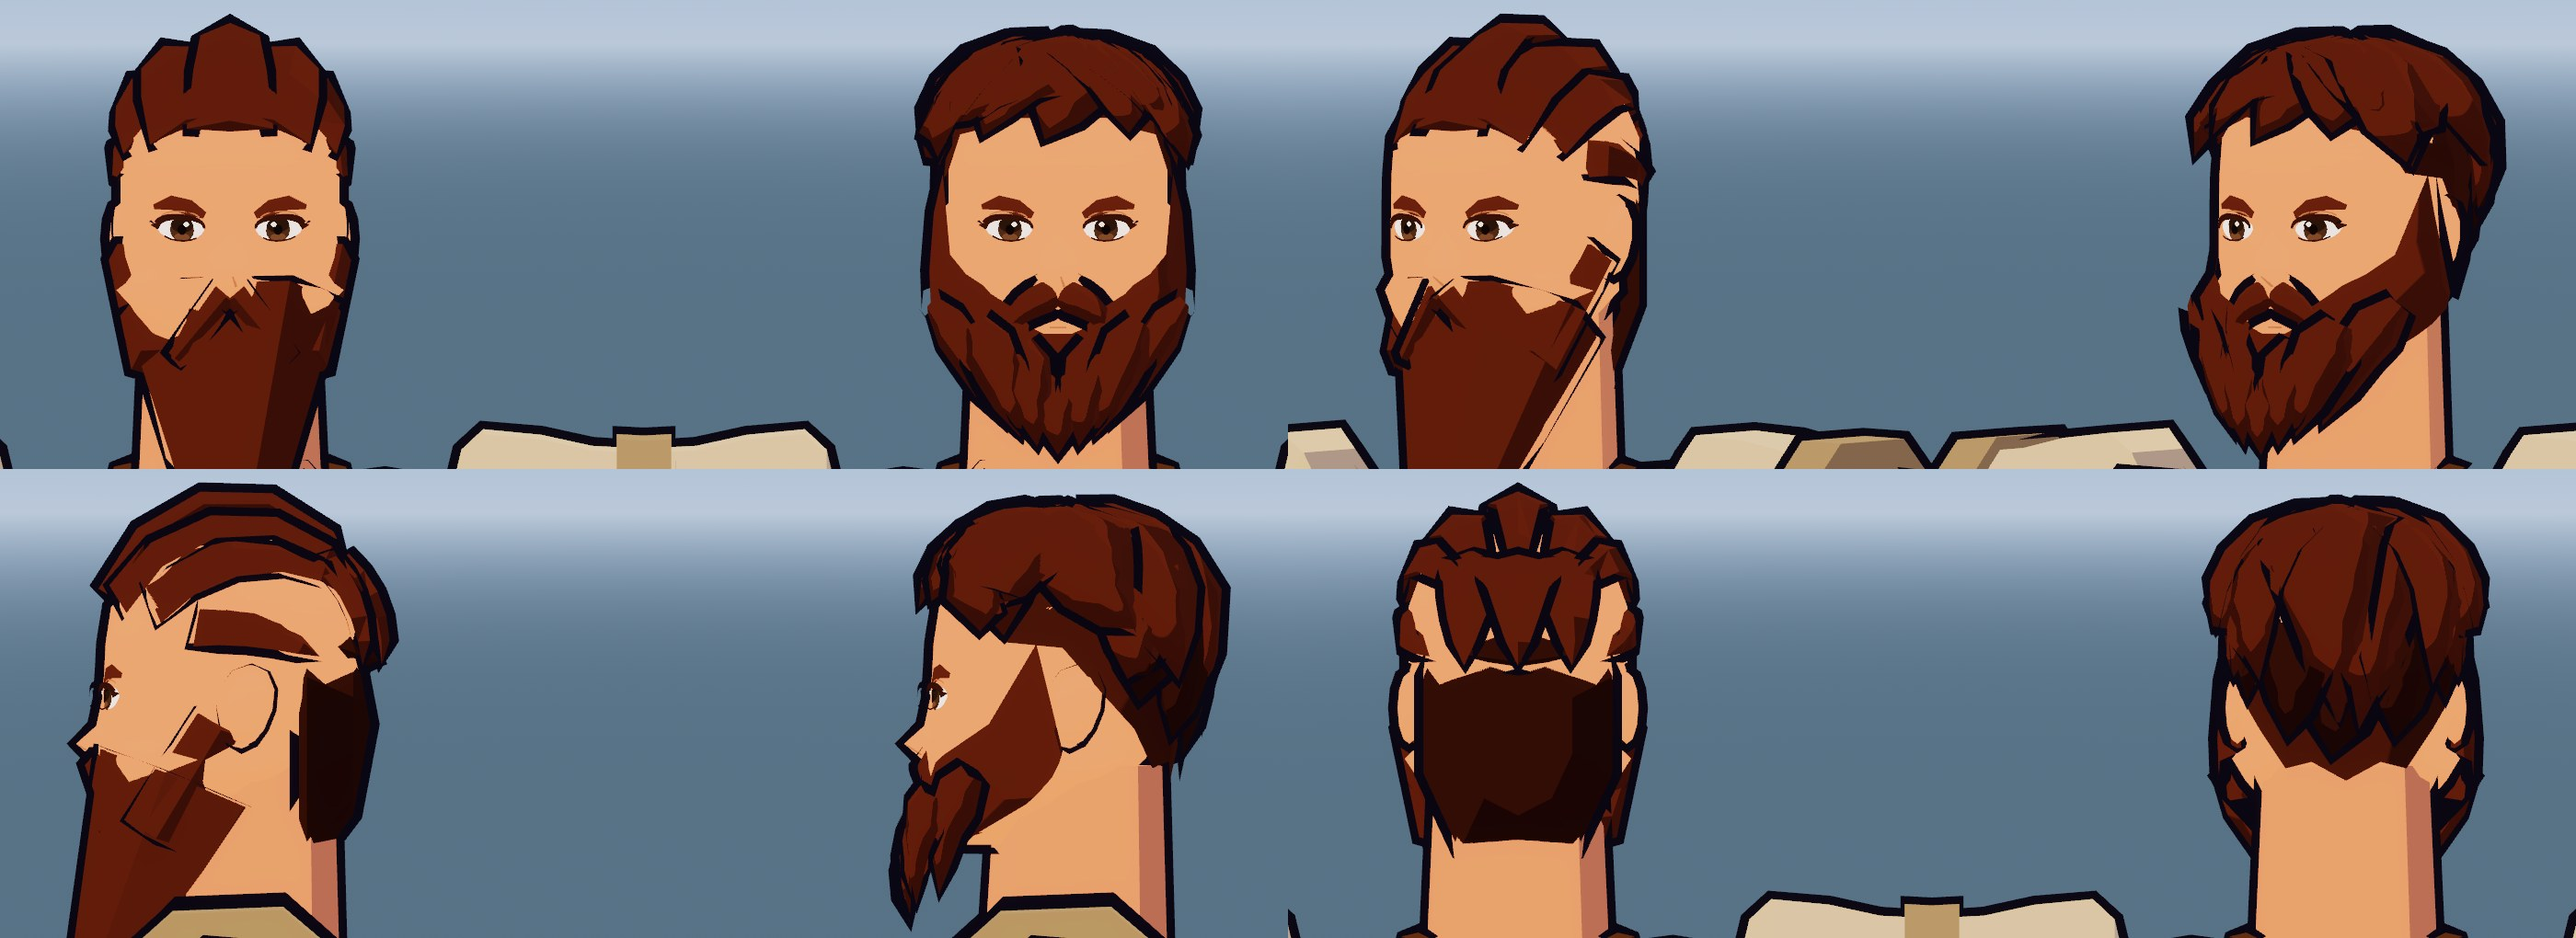
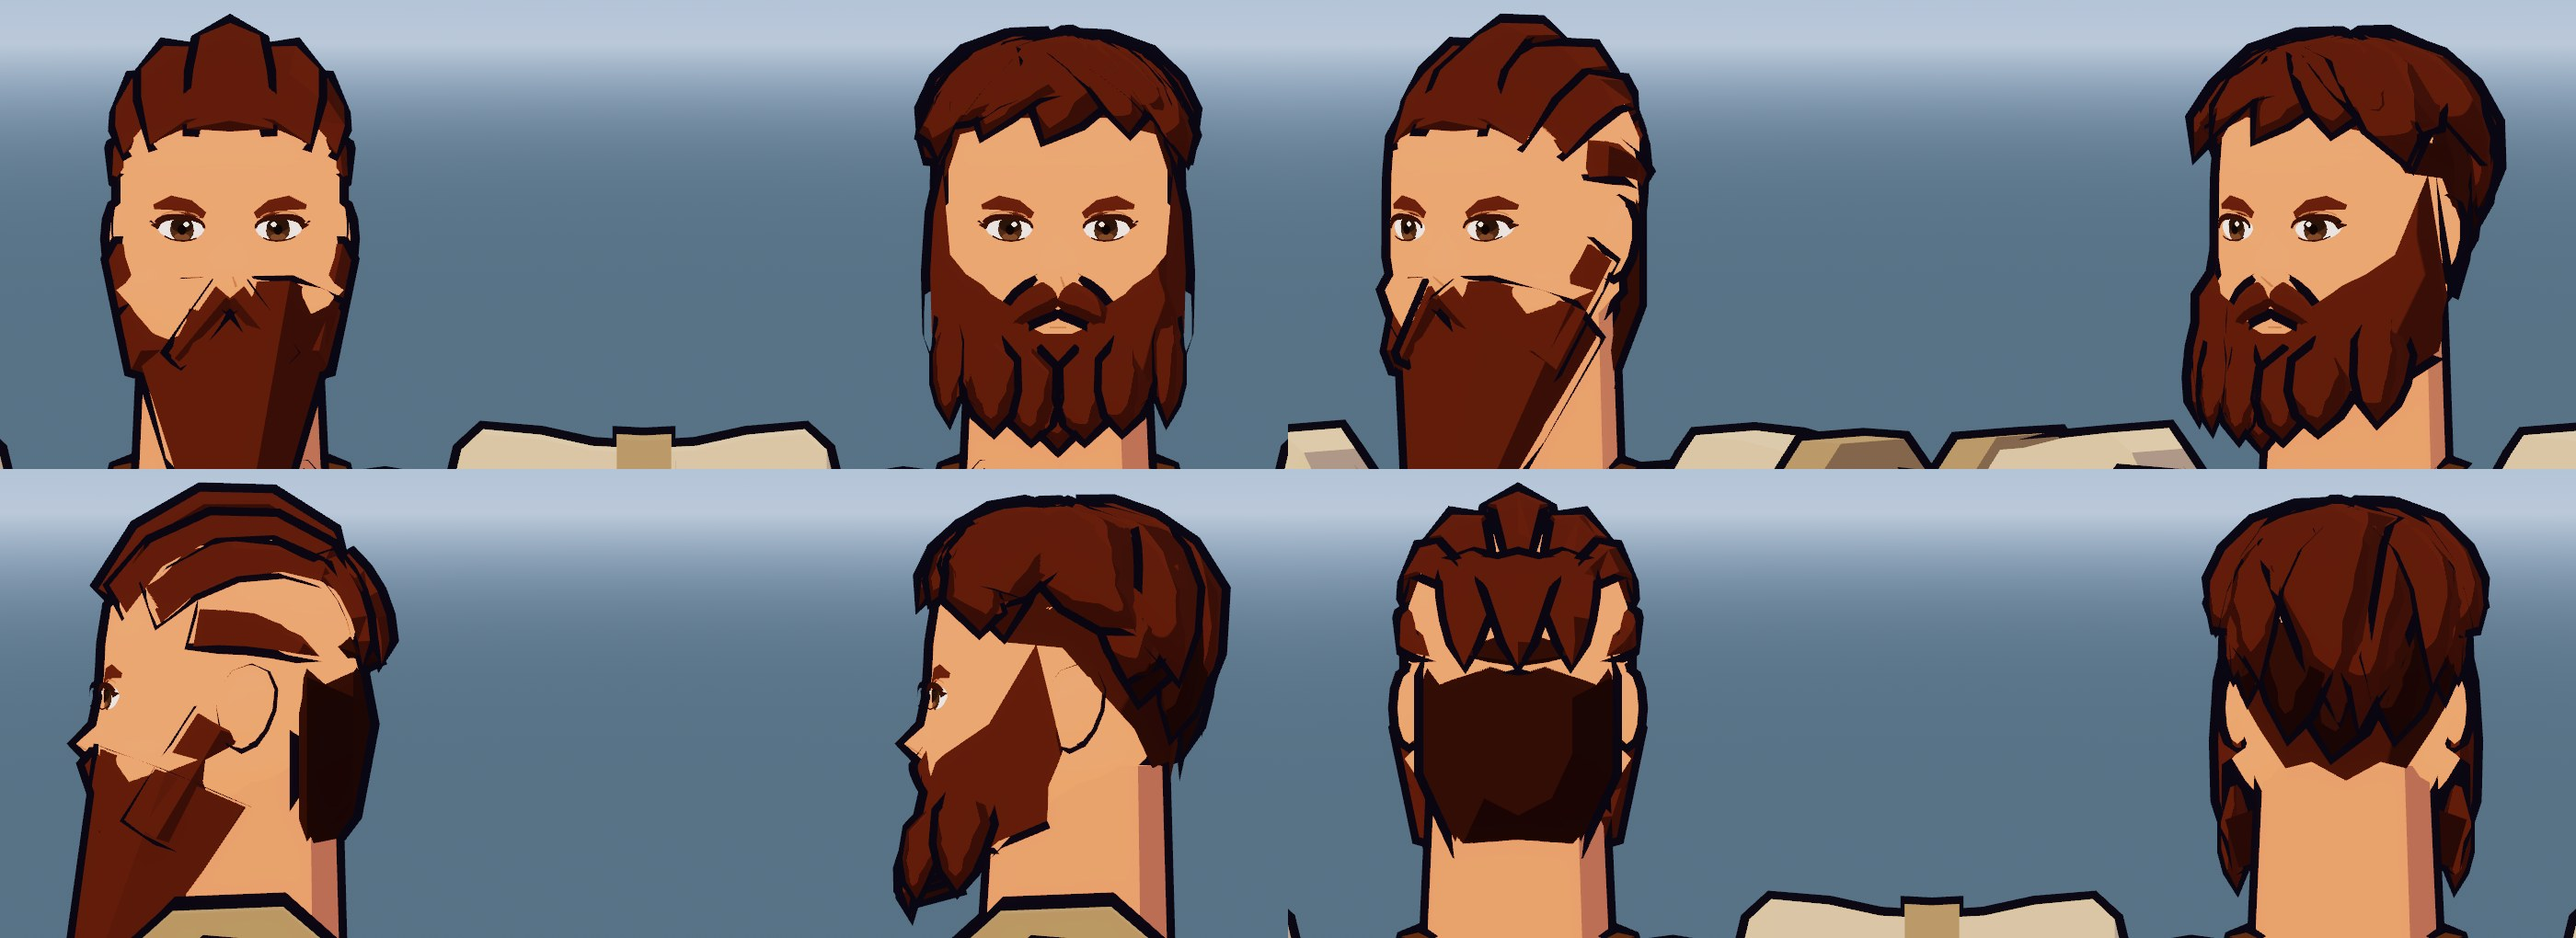
Barba do Doran de teste: volume sob a mandíbula no perfil
- nos lados a barba cai na vertical por fora do pescoço e cobre a mandíbula de perfil
- fundo da barba fechado para dentro, com faces orientadas à mão (de costas aparecia o avesso preto)
- mechas da barba nascem dentro da massa, só a ponta aparece
- capturas e notas atualizadas; teste segue com 6.054 triângulos

diff --git a/tools/blender/anime.py b/tools/blender/anime.py
@@ -384,11 +384,12 @@ def _lock(bm, ctrl, w, nrm, th_k=0.30, k=2, root=0.5):
                 bm.faces.new((r0[i], r0[j], r1[j], r1[i]))
 
 
-def _hair_obj(name, bm, material, parent):
+def _hair_obj(name, bm, material, parent, recalc=True):
     if not bm.faces:
         bm.free()
         return None
-    bmesh.ops.recalc_face_normals(bm, faces=bm.faces[:])
+    if recalc:
+        bmesh.ops.recalc_face_normals(bm, faces=bm.faces[:])
     bmesh.ops.triangulate(bm, faces=bm.faces[:], quad_method='BEAUTY')
     _place(bm, (0, 0, 0), parent)
     return _finish(name, bm, material, parent, smooth=True)
@@ -501,7 +502,7 @@ _BEARD_DEG = [0, 4, 9, 16, 26, 38, 52, 68, 84, 98]
 _BEARD_TOP = [3.1, 3.1, 3.5, 5.0, 6.0, 6.6, 7.4, 8.8, 14.6, 6.8]  # linha de cima (cm): sob o lábio, bochecha, costeleta
 # borda de baixo: em fração do comprimento abaixo do queixo (pontas e reentrâncias alternadas); atrás da
 # mandíbula (valores positivos, em cm) a borda sobe até a orelha
-_BEARD_BOT = [-1.0, -0.88, -0.56, -0.80, -0.44, -0.60, -0.30, -0.36, 0.7, 3.0]
+_BEARD_BOT = [-1.0, -0.88, -0.56, -0.80, -0.50, -0.62, -0.22, -0.42, 0.3, 1.8]
 
 
 def anime_beard(prefix, H, mats, parent, style=None):
@@ -510,7 +511,6 @@ def anime_beard(prefix, H, mats, parent, style=None):
     st = dict(BEARD_STYLE)
     st.update(style or {})
     s, L, full = H["s"], st["length"], st["full"]
-    ZJ = 2.0                                     # abaixo deste anel a barba cai na vertical
     cy = H["cy"] - 3.0 * s
 
     def radial(p):
@@ -525,13 +525,15 @@ def anime_beard(prefix, H, mats, parent, style=None):
         """Ponto da massa na coluna i, do topo (t=0) à borda de baixo (t=1); t > 1 continua além da ponta."""
         deg, zt, zb = col(i, sg)
         z = zt + (zb - zt) * t
-        zr = max(z, ZJ)
+        side = min(1.0, abs(deg) / 50.0)
+        # abaixo da linha da mandíbula a barba cai na vertical; nos lados a linha é mais alta (anel mais largo),
+        # para a barba descer por fora do pescoço e cobrir a mandíbula de perfil
+        zr = max(z, 2.0 + 2.6 * min(1.0, abs(deg) / 70.0))
         p = _hp(H, deg, zr)
         dn = (zr - z) / L                                               # quanto desceu abaixo da mandíbula
         p.z -= (zr - z) * s
-        p.x *= 1.0 - 0.42 * min(1.0, dn) ** 1.4
+        p.x *= 1.0 - (0.42 - 0.28 * side) * min(1.0, dn) ** 1.4
         p.y -= 0.25 * dn * s
-        side = min(1.0, abs(deg) / 50.0)
         off = (0.45 + (1.2 + 0.5 * side) * full * math.sin(math.pi * min(1.0, t * 1.25) / 2)) * s
         return p + radial(p) * (off + lift * s)
 
@@ -547,17 +549,23 @@ def anime_beard(prefix, H, mats, parent, style=None):
     # por baixo: fecha da borda recortada até o queixo, no tom intermediário (vira sombra entre as pontas)
     ub = bmesh.new()
     e0 = [ub.verts.new(surf(i, sg, 1.0)) for (i, sg) in order]
-    e1 = [ub.verts.new(_hp(H, col(i, sg)[0], max(col(i, sg)[2], 0.9))) for (i, sg) in order]
+    e1 = [ub.verts.new(v.co - radial(v.co) * 3.5 * s + Vector((0, 0, 1.2 * s))) for v in e0]     # some no pescoço
     for c in range(len(order) - 1):
-        ub.faces.new((e0[c], e0[c + 1], e1[c + 1], e1[c]))
-    out.append(_hair_obj(prefix + "BeardUnder", ub, mats["mid"], parent))
+        f = ub.faces.new((e0[c], e0[c + 1], e1[c + 1], e1[c]))
+        f.normal_update()
+        # a face olha para baixo e para dentro; sem ela, de costas aparece o avesso da massa (a casca, preta)
+        if f.normal.dot(Vector((0, 0, -0.6)) - radial(f.calc_center_median())) < 0:
+            f.normal_flip()
+    out.append(_hair_obj(prefix + "BeardUnder", ub, mats["mid"], parent, recalc=False))
 
     if st["locks"]:
         lb = bmesh.new()
-        for i, w, t0 in ((0, 2.0, 0.2), (3, 2.0, 0.3), (5, 2.2, 0.3), (7, 2.0, 0.35)):
+        # mechas curtas, só sobre as pontas: compridas, viram "dedos" pendurados
+        for i, w, t0 in ((0, 2.0, 0.3), (3, 1.9, 0.5), (5, 2.0, 0.58), (7, 1.9, 0.55)):
             for sg in ((1,) if i == 0 else (1, -1)):
-                _lock(lb, [surf(i, sg, t0, 0.5), surf(i, sg, 0.7, 0.75), surf(i, sg, 1.2, 0.3)], w * s, radial,
-                      th_k=0.36)
+                # a raiz nasce dentro da massa: só a metade da ponta aparece, como uma folha, não um gomo
+                _lock(lb, [surf(i, sg, t0 - 0.12, -0.35), surf(i, sg, (t0 + 1.14) / 2, 0.4), surf(i, sg, 1.14, 0.2)],
+                      w * 1.15 * s, radial, th_k=0.24, root=0.35)
         out.append(_hair_obj(prefix + "BeardLocks", lb, mats["hair"], parent))
     if st["mustache"]:
         mb = bmesh.new()

diff --git a/docs/ESTILO_TOON.md b/docs/ESTILO_TOON.md
@@ -231,12 +231,21 @@ deu origem à técnica está em [`ESTUDO_PERSONAGEM_ANIME.md`](ESTUDO_PERSONAGEM
 5. **O "ângulo" das colunas da cabeça não é geométrico**: a coluna 79 fica 4 cm à frente da orelha. A
    costeleta só encostou na orelha com a coluna 84, e a barba só cobriu a mandíbula com a 98.
 6. **Custo:** 5.270 -> 6.054 triângulos (cabelo e barba: de ~650 para ~1.430). Passa do orçamento de 5 mil.
-7. **O que ainda destoa:** de perfil a barba parece pendurada no queixo (falta volume sob a mandíbula); a
-   linha da barba na bochecha é uma reta sem traço; o contorno do cabelo é preto como o do corpo (no estudo
-   era um tom mais claro; no jogo o contorno tem uma cor só); de costas as mechas da nuca são lâminas grandes.
+7. **De perfil a barba precisa descer por fora do pescoço.** A cabeça de `anime_head` afina em cone até o
+   queixo, sem ângulo de mandíbula, e o pescoço do ferreiro é quase tão largo quanto o rosto: com a borda da
+   barba na linha da mandíbula, sobrava pele entre a bochecha e o pescoço e a barba parecia pendurada no
+   queixo. Nos lados a barba agora cai na vertical a partir de um anel mais alto e mais largo.
+8. **Massa de uma face só mostra o avesso.** De costas aparecia a casca do contorno (preta) dos dois lados do
+   pescoço. O fundo da barba fecha a borda para dentro e para cima, com a orientação das faces posta à mão.
+9. **Mecha comprida sobre a massa vira "dedo".** As mechas da barba nascem dentro da massa e só a ponta
+   aparece.
+10. **O que ainda destoa:** a linha da barba na bochecha é uma reta sem traço; de frente a barba ficou mais
+    quadrada; o contorno do cabelo é preto como o do corpo (no estudo era um tom mais claro; no jogo o
+    contorno tem uma cor só); de costas as mechas da nuca são lâminas grandes.
 
 Capturas (atual à esquerda, teste à direita; frente, três quartos, perfil e costas):
-`docs/screenshots/doran_cabelo_barba_rosto.jpg` e `doran_cabelo_barba_corpo.jpg`.
+`docs/screenshots/doran_cabelo_barba_rosto.jpg` e `doran_cabelo_barba_corpo.jpg`. Ajuste do perfil (antes à
+esquerda, depois à direita; perfil e 60 graus): `doran_barba_perfil.jpg`.
 
 ### Do desempenho
 1. **O custo do contorno é de nós, não de triângulos.** O goblin tem 102 peças (`MeshInstance3D`), 59 delas
